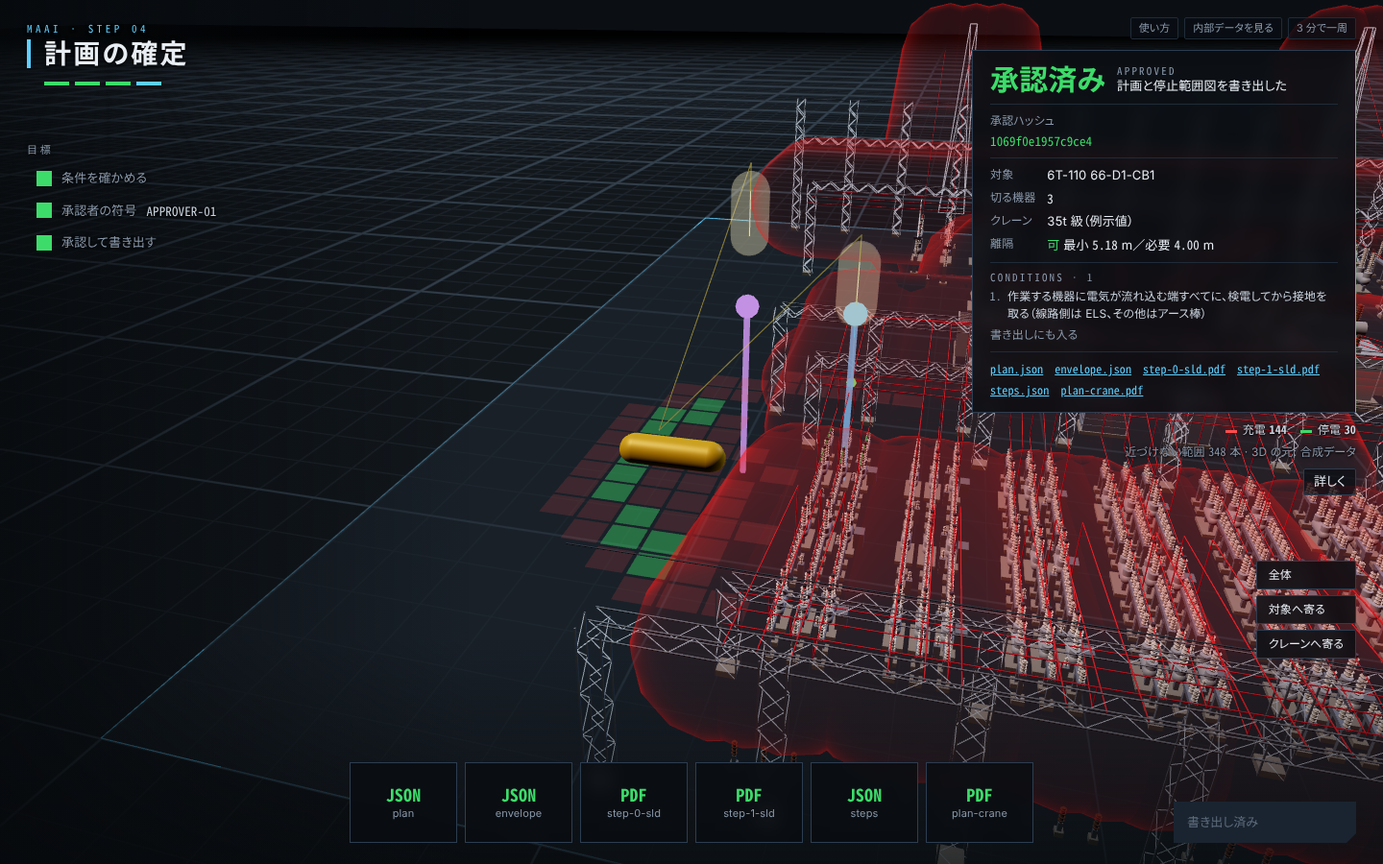
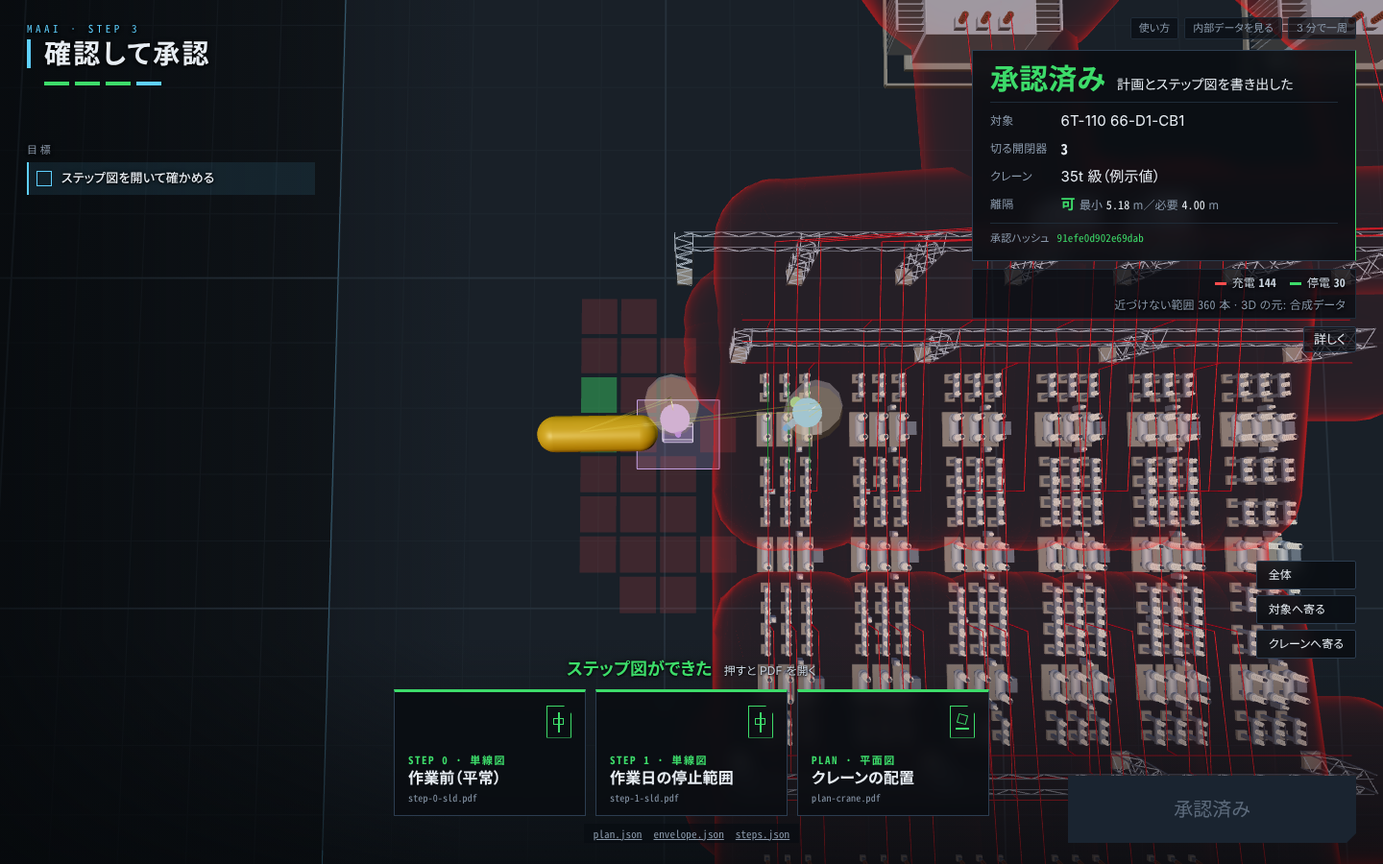
4 段の流れに合わせて録画スクリプト・語り（s3〜s5）・README の流れの表と画面写真を直す。台帳からの自動取得を「この先」に
Claude-Session: https://claude.ai/code/session_01LwsL2aemVhkJQyjjsEyFxk

diff --git a/scripts/demo_video/record.py b/scripts/demo_video/record.py
@@ -30,9 +30,9 @@ LINES = [
     ("s1", "0:00-0:15", 15, "機器を取り替える日も、変電所は全部は止められません。止める範囲は減らしたい。でもその案で大丈夫か。今は図面を見ながら、頭の中で想像しています。"),
     ("s2", "0:15-0:45", 30, "MAAI は、単線結線図と、平面図・断面図を読んで、構内の 3D を組み立てます。機器の位置と高さは図面から、どこがつながっているかは結線図から。読めなかったところは、要確認として人に返します。"),
     ("s2b", "0:45-1:05", 20, "工事の依頼は文章で来ます。Claude がそこから、取り替える機器、止められない設備、置き場、重さを読み取ります。番号が本当にあるかは計算で確かめ、入れるかどうかは人が決めます。"),
-    ("s3", "1:05-1:25", 20, "取り替える機器に電気が流れ込んでくる側すべてで、最初の断路器まで切る範囲が出ます。緑が停電、赤が充電。見えなかった充電部が、目に見えるようになります。"),
-    ("s4", "1:25-2:00", 35, "次はクレーンです。新任の私には、どのクレーンにするかがすぐには分かりません。MAAI は、吊る場所と置き場と重さから、充電部に近づかずに吊れる一番小さいクレーンを計算で選びます。今回は 35t 級。据える場所は、緑のますの中で人が動かして確かめられます。依頼文で 1 号バンクは止められないので、追加で止める案は出しません。"),
-    ("s5", "2:00-2:20", 20, "判定は計算で行い、根拠の表も残します。Claude に送る前に、名前や定格値は符号に置き換えます。採否は人が決め、停止範囲の結線図と、クレーンの位置を描いた平面図を書き出します。"),
+    ("s3", "1:05-1:25", 20, "単線結線図で、取り替える機器を押します。電気が流れ込んでくる側すべてで、最初の断路器まで切る範囲が自動で出ます。緑が停電、赤が充電。見えなかった充電部が見えます。"),
+    ("s4", "1:25-2:00", 35, "次はクレーンです。新任の私には、どのクレーンにするかがすぐには分かりません。平面図で資材の置き場を押し、重さを入れると、充電部に近づかずに吊れる一番小さいクレーンが自動で置かれます。今回は 35t 級。動かすと、その場所で使える級に選び直します。依頼文で 1 号バンクは止められないので、追加で止める案は出しません。"),
+    ("s5", "2:00-2:20", 20, "判定は計算で行い、根拠の表も残します。Claude に送る前に、名前や定格値は符号に置き換えます。この配置で OK と人が押すと承認され、停止範囲の結線図と、クレーンの位置を描いた平面図が出ます。"),
 ]
 
 REQ_TEXT = ("次の作業日に、66kV 1号ダイヤの遮断器 6T-110 を取り替えます。新しい遮断器は約 3.5 t です。資材は取り替える遮断器の西側、"
@@ -100,7 +100,14 @@ JS_PLACE_FAR = """(maxm)=>{ const m=window.maai, h=window.hud; if(!m||!m.zoneCel
   const ok=m.zoneCells.filter(c=>c.ok); if(!ok.length) return null;
   const b=(m.lastCrane&&m.lastCrane.base)||[NaN,NaN]; let best=-1, bd=-1, far=-1, fd=-1;
   ok.forEach((c,i)=>{ const d=Math.hypot(c.x-b[0],c.y-b[1]); if(!(d>=0)) return; if(d>fd){fd=d;far=i;} if(d<=maxm && d>bd){bd=d;best=i;} });
-  const i = best>=0?best:(far>=0?far:0); h.placeAtCell(i); return {i, n:ok.length, x:ok[i].x, y:ok[i].y, d:(best>=0?bd:fd)}; }"""
+  const i = best>=0?best:(far>=0?far:0); const info={i, n:ok.length, x:ok[i].x, y:ok[i].y, d:(best>=0?bd:fd)};
+  return Promise.resolve(h.placeAtCell(i)).then(()=>{ info.cls=m.lastCrane&&m.lastCrane.class; return info; }); }"""
+# 3D の点（地面の x,y,z）を画面の座標に（page.mouse.click で押すため）
+JS_SCREEN_XY = """([x,y,z])=>{ const m=window.maai, v=new m.THREE.Vector3(x,y,z||0).project(m.camera), r=m.renderer.domElement.getBoundingClientRect();
+  return [r.left+(v.x+1)/2*r.width, r.top+(1-v.y)/2*r.height]; }"""
+# 単線図で取り替える機器（見本 66-D1-CB1 = 6T-110）の .mk に寄せて、押すための CSS セレクタを返す
+JS_TARGET_MK = """(id)=>{ let e=document.querySelector('.mk[data-id="'+id+'"]') || document.querySelector('.mk[title^="6T-110 "]');
+  if(!e) return null; e.scrollIntoView({block:'center',inline:'center'}); return '.mk[data-id="'+e.dataset.id+'"]'; }"""
 JS_CAM = "()=>{const c=window.maai&&window.maai.controls; return c?[c.target.x,c.target.y,c.radius,c.theta,c.phi].map(v=>+v.toFixed(3)):null;}"
 # 結線図で押す開閉器: 停止範囲の「切る機器」のうち最初の断路器（無ければ最初の機器）。.mk に寄せて、押すための CSS セレクタを返す
 JS_PICK_MK = """()=>{ const m=window.maai, st=m&&m.lastSteps; let id=null;
@@ -246,19 +253,13 @@ def main() -> int:
             """緑のます目へクレーンを移して判定し直す（window.hud.placeAtCell）。HUD が無ければ None。"""
             if not HUD:
                 return None
-            n0 = mark("clearance")
-            r = page.evaluate(JS_PLACE_FAR, max_m)
-            if r:
-                wait_update("clearance", n0)
-            return r
+            return page.evaluate(JS_PLACE_FAR, max_m)   # 選び直しと判定が終わるまで待つ
 
         def rotate(deg: float, hold: int):
             """クレーンを deg 度回して判定し直し（window.hud.rotate）、hold ミリ秒止める。HUD が無ければ何もしない。"""
             if not HUD:
                 return
-            n0 = mark("clearance")
-            hud("rotate", deg)
-            wait_update("clearance", n0)
+            hud("rotate", deg)                          # s2 では向きを変えて級も選び直す。終わるまで待つ
             page.wait_for_timeout(hold)
 
         def pan(pdf: Path, hold: int):
@@ -312,14 +313,16 @@ def main() -> int:
                 drawer(False)                        # 図面から起こした配置の 3D を全面で見せる
                 page.wait_for_timeout(2500)
             elif sid == "s2b":
-                tab("s1")                            # 3D は全面のまま、右上に結線図の小窓
-                page.wait_for_timeout(1000)
-                drawer(True)                         # 依頼文の欄は引き出しの中
+                tab("s1")                            # 単線図が全面に出る
+                page.wait_for_timeout(1200)
+                if not page.evaluate("()=>{const b=document.querySelector('#hudSide [data-act=\"intake\"]'); if(b){b.click(); return true;} return false;}"):
+                    drawer(True)                     # 「依頼文から入れる」→ 引き出しの依頼文の欄
+                page.wait_for_timeout(500)
                 page.evaluate("(t)=>{const e=document.getElementById('reqText'); e.value=t;}", REQ_TEXT)
                 smooth("#reqText", "start")
                 page.wait_for_timeout(2500)
                 click("#btnIntake")
-                wait_in("#intakeBox .bay", 120000)   # Claude の返事を待つ（待ちの静止は compose が縮める）
+                wait_in("#intakeBox .bay", 120000)   # Claude の返事を待つ（オフラインでは規則の読み取り。待ちの静止は compose が縮める）
                 page.wait_for_timeout(1000)
                 shot("s2b_intake")
                 smooth("#intakeBox", "start")        # 読み取った 4 項目と引用、計算で確かめた結果、「この内容で入れる」
@@ -327,21 +330,27 @@ def main() -> int:
                 click("#btnIntakeUse")
                 wait_in("#stepsBox .bay", 30000)
                 page.wait_for_timeout(800)
-                drawer(False)                        # 3D の上: 「依頼文から読み取った」の札（紫）と、停止範囲の答え
+                drawer(False)                        # 単線図の上: 停止範囲の答え
                 page.wait_for_timeout(2500)
             elif sid == "s3":
-                tab("s1")
-                page.wait_for_timeout(1500)          # 答えの板: 停電にできる・切る開閉器 n・条件（3D の上）
-                shot("s3_answer")
-                sld_full(True)                       # 結線図を全面に
-                page.wait_for_timeout(800)
-                click('#sldZoom button[data-z="2.6"]')
-                page.wait_for_timeout(2500)
-                shot("s3_green")
-                set_mode("toggle")                   # 押すと開閉器の入・切
+                tab("s1")                            # 単線図は全面、押すと「取り替える機器に選ぶ」
+                page.wait_for_timeout(1200)
+                page.evaluate("()=>{const b=document.querySelector('#sldZoom button[data-z=\"2.6\"]'); if(b) b.click();}")
+                page.wait_for_timeout(1500)
+                tgt = page.evaluate(JS_TARGET_MK, "66-D1-CB1")
+                if tgt:
+                    page.wait_for_timeout(1500)
+                    n0 = mark("steps")
+                    click(tgt)                       # 取り替える機器を押す → 停止範囲が自動で出る
+                    wait_update("steps", n0)
+                    page.wait_for_timeout(3000)
+                    shot("s3_green")
+                else:
+                    print("単線図に取り替える機器が見つからない", file=sys.stderr)
+                set_mode("toggle")                   # 全面の単線図の上の小さな切替（W）: 押すと開閉器の入・切
                 mk = page.evaluate(JS_PICK_MK)       # 切る機器のうち母線側の断路器（入れると対象の区間が赤になる）。Playwright の locator は 1 回 15 秒ほどかかるので使わない
                 if mk:
-                    page.wait_for_timeout(1500)
+                    page.wait_for_timeout(1200)
                     toggle_mk(mk)                    # 入れる → 赤
                     page.wait_for_timeout(2000)
                     shot("s3_red")
@@ -349,39 +358,57 @@ def main() -> int:
                     page.wait_for_timeout(1500)
                 else:
                     print("結線図に押す開閉器が見つからない", file=sys.stderr)
-                sld_full(False)                      # 3D へ戻す（結線図は小窓）
-                page.wait_for_timeout(800)
-                click("#vTarget")                    # 見えなかった充電部（赤）と停電（緑）を 3D で
+                set_mode("target")
+                sld_full(False)                      # 3D へ（取り替える機器に寄る）: 見えなかった充電部（赤）と停電（緑）
+                settle_cam(20000)                    # 寄る動き（frameTo）が終わってから次の段へ（残っていると s2 の真上の視点を上書きする）
+                page.wait_for_timeout(1500)
             elif sid == "s4":
-                tab("s2")
+                for _ in range(2):                   # 真上の視点（段に入ると hud-s2 が動かす。前の段の寄る動きに上書きされたら入り直す）
+                    tab("s2")
+                    try:
+                        page.wait_for_function("()=>window.maai.controls.phi>1.4", polling=300, timeout=10000)
+                        break
+                    except Exception:
+                        print("真上の視点にならない。入り直す", file=sys.stderr)
                 page.wait_for_timeout(1000)
-                click("#btnSelect")                  # 吊る場所・置き場・重さから、一番小さいクレーンを探す
-                wait_in("#selectBox .big", 60000)
-                page.wait_for_timeout(3000)          # 3D の上: 選ばれた級と判定、地面に据えてよい範囲（緑）、下のバーに級のタイル
-                shot("s4_select")
+                page.evaluate("()=>{const t=document.getElementById('pickT'); if(t) t.value=''; window.hud&&window.hud.render();}")   # 重さは画面で入れる（例示値の既定を空けて、入れる順を見せる）
+                page.wait_for_timeout(1200)
+                shot("s4_top")
+                xy = page.evaluate(JS_SCREEN_XY, [26, 38, 0])   # 資材置場: 取り替える遮断器の西 8 m の地面を押す → 箱
+                page.mouse.click(xy[0], xy[1])
+                page.wait_for_timeout(2500)
+                shot("s4_box")
                 n0 = mark("clearance")
-                click("#btnAdoptSel")                # 選んだ配置を置く → 判定 → クレーンへ寄る
-                wait_in("#verdictBox .bay", 30000)
-                wait_update("clearance", n0)
-                settle_cam()
-                page.wait_for_timeout(3000)          # 答えの板: 可、最小離隔／必要、クレーンの札
+                page.evaluate("()=>{const i=document.getElementById('s2W'); if(i){ i.value='3.5'; i.dispatchEvent(new Event('input',{bubbles:true})); } else { const t=document.getElementById('pickT'); t.value='3.5'; } }")
+                wait_update("clearance", n0, timeout=120000)   # 重さが入ると自動で選定 → 自動で採用 → 判定（人は押さない）
+                settle_cam(6000)
+                page.wait_for_timeout(3500)          # 答えの板: 35t 級で置ける（可）、最小離隔／必要
                 shot("s4_verdict")
-                # 見せ場: 一つ上の級に切り替えると置ける範囲が広がる → 緑のます目へ移して判定し直す → 回して判定し直す
+                base = page.evaluate("()=>{const c=window.maai.lastCrane; return c?[c.base[0],c.base[1],2]:null}")
+                if base:                             # クレーンを押す → 「動かす」「↺/↻ 5°」のカード
+                    xy = page.evaluate(JS_SCREEN_XY, base)
+                    page.mouse.click(xy[0], xy[1])
+                    page.wait_for_timeout(2000)
+                    shot("s4_card")
+                # 見せ場: 一つ上（50t）の範囲を塗る → 緑のます目へ動かすと、その位置で級を選び直す → 回しても選び直す
                 if zone_tile(1):
                     page.wait_for_timeout(2500)
                     shot("s4_tile")
-                if place_far_cell():
+                moved = place_far_cell()
+                print("動かした:", moved, file=sys.stderr)
+                if moved:
                     page.wait_for_timeout(3000)
                     shot("s4_moved")
-                for _ in range(2):                   # 1 回の判定し直しに数秒かかるので 2 回
+                for _ in range(2):                   # 1 回の選び直しに数秒かかるので 2 回
                     rotate(5, 1600)
                 shot("s4_rotated")
-                n0 = mark("clearance")
-                click("#btnAdoptSel")                # 計算で選んだ配置（一番小さい級）に戻す
-                wait_update("clearance", n0)
-                settle_cam()
-                page.wait_for_timeout(1500)
-                drawer(True)                         # 根拠は引き出し: 重さだけなら 10t・離隔で 35t、一つ下が使えない理由、止められない設備（依頼文）と止められる場合の比較
+                n0 = mark("clearance")               # 「一番小さいクレーンを選ぶ」のタイル → 自動で採用し、35t 級の配置に戻る
+                if page.evaluate("()=>{const b=document.querySelector('#hudBar .tile[data-act=\"select\"]'); if(b){b.click(); return true;} return false;}"):
+                    wait_update("clearance", n0, timeout=120000)
+                    settle_cam(6000)
+                page.wait_for_timeout(2000)
+                shot("s4_back")
+                drawer(True)                         # 根拠は引き出し: 重さだけなら 10t・離隔で 35t、一つ下が使えない理由、止められない設備（依頼文）
                 smooth("#selectBox", "start")
                 page.wait_for_timeout(3000)
                 scroll_text("#selectBox .bay", ["止められない設備", "追加で止めた場合"], "center")
@@ -389,6 +416,7 @@ def main() -> int:
             elif sid == "s5":
                 # 根拠: 導体ごとの距離・必要・余裕の表（引き出し。s4 の終わりから開いたまま）
                 drawer(True)
+                page.evaluate("()=>{const b=document.getElementById('manualBox'); if(b) b.open=true;}")
                 smooth("#verdictBox", "start")
                 page.wait_for_timeout(3000)
                 shot("s5_evidence")
@@ -398,11 +426,11 @@ def main() -> int:
                 page.wait_for_timeout(3200)
                 page.evaluate(JS_REMOVE_OV)
                 drawer(False)
-                tab("s3")                            # 答えの板: 対象・切る機器・クレーン級・離隔と、承認の条件
-                page.wait_for_timeout(1500)
-                click("#btnApprove")
+                tab("s3")                            # 答えの板: 対象・切る開閉器・クレーン級・離隔と条件
+                page.wait_for_timeout(2000)
+                click("#hudNext")                    # 「この配置で OK（承認）」（= #btnApprove）
                 wait_in("#approveBox .bay", 60000)
-                page.wait_for_timeout(2000)          # 承認ハッシュと書き出したファイル（3D の上）
+                page.wait_for_timeout(3000)          # 承認済みと、ステップ図のタイル（停止範囲の単線図・クレーン配置の平面図）
                 shot("s5_approved")
 
                 def overlay(name: str, hold: int):

diff --git a/README.md b/README.md
@@ -8,11 +8,11 @@
 
 > このリポジトリのデータはすべて合成です。実在する事業者・変電所・図面・写真・人は含みません（[データについて](#データについて)）。
 
-![作業日の停止範囲。66kV 遮断器を取り替える日に切る機器と条件が出て、結線図の上で停電（緑の破線）と充電（赤）を追う](docs/img/ui-2-steps.png)
+![対象を選ぶ。単線結線図の上で 66kV 遮断器 6T-110 を押すと、作業日の停止範囲（切る開閉器 3）が自動で出て、停電（緑の破線）と充電（赤）を追える](docs/img/ui-2-steps.png)
 
 ## すぐ見る（インストールなし・スマホ可）
 
-- **ブラウザで動かす**: https://daxion1578.github.io/Minimum-Approach-Area-Indicator/ を開くだけ。サーバ無しで、計算はそのブラウザの中で、手元のサーバ版と同じ Python コードが行います（初回は準備に 10〜20 秒）。3D が画面いっぱいに出て、左上のいまのステップ名と左の目標に沿って、右下の操作で 4 つのステップを順に進めます。表や数値の内訳は「詳しく」の引き出しに入っています。Claude は呼ばないので、図面の意味づけと修正案の説明は規則の文になり、工事の依頼文は開閉器番号だけを拾います（止められない設備・置き場・重さは、Claude をつないだサーバ版で読みます）。
+- **ブラウザで動かす**: https://daxion1578.github.io/Minimum-Approach-Area-Indicator/ を開くだけ。サーバ無しで、計算はそのブラウザの中で、手元のサーバ版と同じ Python コードが行います（初回は準備に 10〜20 秒）。3D が画面いっぱいに出て、各ステップで入れるもの（単線図で対象を押す、平面図で資材置場と重さ、この配置で OK）だけが画面に出ます。表や数値の内訳は「詳しく」の引き出しに入っています。Claude は呼ばないので、図面の意味づけと修正案の説明は規則の文になり、工事の依頼文は開閉器番号だけを拾います（止められない設備・置き場・重さは、Claude をつないだサーバ版で読みます）。
 - **動いている証拠**: 上の `check` バッジ → 最新の実行 → **Summary**。push のたびに GitHub 上で、図面取込 → 作業日の停止範囲 → 重機の選定（一番小さいクラス）→ 追加停止で小さくできるか → 承認、を通しで動かし、段階ごとの合否を表で出しています（Claude は呼ばない経路）。
 - **画面**: 下の「流れ」の画面写真。
 - **手元で同じ確認**: `python scripts/check_demo.py`（サーバを立てずに 1 分以内）。
@@ -31,18 +31,18 @@
 
 ## 流れ（4 つのステップ）
 
-画面は 3D を画面いっぱいに出し、操作をその上に浮かべる形です。左上にいまのステップ名、左に目標、右上に答え、下にバー、右下に操作と確定。表・数値の内訳・旧来のパネルは「詳しく」の引き出しに入っています。
+画面は 3D を画面いっぱいに出し、その上に、いまのステップで入れるものだけを出します。数値の内訳・根拠の表・細かい入力欄は「詳しく」の引き出しに入っています。
 
-| | ステップ | 何をするか | 誰が決めるか |
-|---|---|---|---|
-| 1 | 図面取込 | **図面を入れると、構内の形と電気のつながりが一緒に見える。** 単線結線図（ベクター PDF）を読み込む。線・開閉器記号・番号から接続を起こし、開閉器が「未確認」で並ぶ。種別の確認と質問文は Claude（呼べなければ規則）。装置図（平面・断面）からは機器の位置と高さを読み、結線図の接続と合わせて 3D を組み立て直す（下書き）。読めない所は要確認として人に戻す。確認した下書きは、人が「この 3D で続ける」と押してはじめて計算に使われる | 接続・位置の読み取りは決定論。確認は人 |
-| 2 | 停止範囲 | **結線図で作業する機器を選ぶと、停止範囲が決まり、3D の赤と緑が切り替わる。** 工事の依頼文（ふつうの日本語）を Claude が読み、取り替える機器・止められない設備・資材置場・重さを取り出す。番号の実在と矛盾は計算で確かめ、人が「この内容で入れる」を押す。その日に取り替える機器を選ぶと、作業日の停止範囲が出る。作業する機器に電気が流れ込む端すべてで、最初に出会う断路器まで（途中の遮断器も）切る。送電線は相手端を切る条件、止めない母線は端子の切り離し。右上の小窓の単線結線図で、停電（緑の破線）と充電（赤）を追い、図を押して開閉器を入・切できる | 決定論。止めるかどうかは人 |
-| 3 | 重機 | **資材の置き場所と重さを入れると、クレーンの配置と大きさが決まる。そのあと人が 3D 上で動かし・回せる。** 吊る機器（取り替える機器の真上）と資材置場（の真上）と重さから、届いて・吊れて・充電部の離隔を保てる一番小さいクレーンと据付位置を選ぶ。一つ下のクラスが使えない理由と、追加で止めれば何級で済むかも出す。据えてよい範囲は地面の緑のます目で示し、緑を押すとクレーンをそこへ移して判定し直す。一つ上・二つ上の級とも比べられる。修正案を出すこともできる | 選定と判定は決定論。採用は人 |
-| 4 | 計画確定 | **条件を確かめて承認すると、図面と計画が書き出される。** 承認すると、もう一度判定し直してから `approved/` に plan・envelope・停止範囲図（塗り分けた単線結線図 PDF）、クレーンの配置を描き込んだ平面図 PDF を書き出す。接地を取る条件などを計画に書く。不可と、重機の無い計画は承認できない | 人 |
+| | ステップ | 人が入れるもの | 自動で出るもの | 誰が決めるか |
+|---|---|---|---|---|
+| 0 | 図面を読む | 単線結線図と装置図（平面・断面）のベクター PDF | 線・開閉器記号・番号から接続を起こし、装置図から機器の位置と高さを読んで 3D を組み立てる。種別の確認と質問文は Claude（呼べなければ規則）。読めない所は要確認として人に戻す。下書きの 3D は、人が「この 3D で続ける」と押してはじめて計算に使われる | 読み取りは決定論。確認は人 |
+| 1 | 対象を選ぶ | 単線結線図の上で、取り替える機器を押す | 作業日の停止範囲。作業する機器に電気が流れ込む端すべてで、最初に出会う断路器まで（途中の遮断器も）切る。送電線は相手端を切る条件、止めない母線は端子の切り離し。結線図の上で停電（緑の破線）と充電（赤）、3D の赤と緑。工事の依頼文があれば「依頼文から入れる」で、Claude が取り替える機器・止められない設備・資材置場・重さを読み取る（番号の実在と矛盾は計算で確かめ、人が入れる） | 決定論。止めるかどうかは人 |
+| 2 | 置場と重さ | 真上から見た平面図で資材置場を押して箱を置き、重さを入れる | 届いて・吊れて・充電部の離隔を保てる一番小さいクレーンと据付位置。据えてよい範囲は地面の緑のます目。クレーンを押して動かす・回すと、その位置で使える一番小さい級に選び直す。一つ下の級が使えない理由と、追加で止めれば何級で済むかは「詳しく」に | 選定と判定は決定論。どこに据えるかは人 |
+| 3 | 確認して承認 | 「この配置で OK（承認）」を押す | もう一度判定し直してから、工事で使うステップ図（作業前と作業日の停止範囲を塗り分けた単線結線図 PDF、クレーンの配置を描き込んだ平面図 PDF）と計画（JSON）を書き出す。接地を取る条件などを計画に書く。不可と、重機の無い計画は承認できない | 人 |
 
-![重機の配置。35t 級で可（最小 5.18 m／必要 4.00 m）。地面の緑のます目がクレーンを据えてよい範囲で、下のバーで 35t・50t・70t 級の置けるます数を比べられる。重さだけなら 10t 級で足りるが、充電部を避けるために 35t 級が要る](docs/img/ui-3-select.png)
-![図面を読む。読めた開閉器番号と確かめてほしいことが右上に出て、下のボタンから単線結線図と装置図（平面・断面）を入れる](docs/img/ui-1-ingest.png)
-![計画確定。承認の条件と、書き出したファイル](docs/img/ui-4-approve.png)
+![置場と重さ。真上から見た平面図で資材置場を押して箱を置き、重さ 3.5 t を入れると、一番小さいクレーン（35t 級、可。最小 5.18 m／必要 4.00 m）が自動で置かれる。地面の緑のます目が据えてよい範囲](docs/img/ui-3-select.png)
+![図面を読む。サンプルの結線図を入れると、読めた開閉器番号と確かめてほしいことが右上に出る](docs/img/ui-1-ingest.png)
+![確認して承認。「この配置で OK」で承認すると、作業前と作業日の単線結線図、クレーン配置の平面図がステップ図として出る](docs/img/ui-4-approve.png)
 
 ## 設計判断
 
@@ -110,9 +110,9 @@ uvicorn server.app:app --reload     # http://localhost:8000
 
 ## この先
 
+- 工事の依頼文の代わりに、工事全体の資料や設備台帳から、取り替える機器・重さ・止められない設備を自動で持ってくる
 - 配置図・断面図から起こした 3D を、停止範囲と離隔の計算に使う（今は下書きの表示と一致の確認まで）
 - 複数の作業日を並べて持つ（今は 1 日ずつ）。据付可能な範囲（地盤・搬入路）を一般平面図から取る
-- 作業指示の自然文から、止められない回線・作業対象・重機を取り出す
 - 停止要否検討書の文章
 - 承認済みの包絡を現地（AR）とクレーン側の装置へ
 - 3 相架線の全造形、点群との照合、工程表との連携、設備台帳との接続

diff --git a/docs/demo-plan.md b/docs/demo-plan.md
@@ -17,9 +17,9 @@
 | 0:00–0:15 | 図面（一般平面図 → 機械器具装置図〈平面・断面〉→ 単線結線図をゆっくり寄せる） | 機器を取り替える日も、変電所は全部は止められません。止める範囲は減らしたい。でもその案で大丈夫か。今は図面を見ながら、頭の中で想像しています。 |
 | 0:15–0:45 | ステップ 1（図面取込）: 図面を入れると、構内の形と電気のつながりが一緒に見える。図面を読み込む（意味づけは Claude）→ 装置図から起こした 3D →「この 3D で続ける」 | MAAI は、単線結線図と、平面図・断面図を読んで、構内の 3D を組み立てます。機器の位置と高さは図面から、どこがつながっているかは結線図から。読めなかったところは、要確認として人に返します。 |
 | 0:45–1:05 | ステップ 2（停止範囲）: 工事の依頼文 →「Claude で読み取る」→ 取り替える機器・止められない設備（1 号バンク）・置き場・重さ、計算で確かめた結果 →「この内容で入れる」 | 工事の依頼は文章で来ます。Claude がそこから、取り替える機器、止められない設備、置き場、重さを読み取ります。番号が本当にあるかは計算で確かめ、入れるかどうかは人が決めます。 |
-| 1:05–1:25 | ステップ 2（停止範囲）: 結線図で作業する機器を選ぶと、停止範囲が決まり、3D の赤と緑が切り替わる。切る機器と条件 → 右上の小窓の結線図の緑と赤（開閉器を押して戻す）→ 3D | 取り替える機器に電気が流れ込んでくる側すべてで、最初の断路器まで切る範囲が出ます。緑が停電、赤が充電。見えなかった充電部が、目に見えるようになります。 |
-| 1:25–2:00 | ステップ 3（重機）: 資材の置き場所と重さを入れると、クレーンの配置と大きさが決まる。「一番小さいクレーンを選ぶ」→ 10t（重さ）・35t（離隔）の理由 → 止められない設備（依頼文）のため追加停止の案は出ない（止められるなら 25t 級）→ 採用 → 可 | 次はクレーンです。新任の私には、どのクレーンにするかがすぐには分かりません。MAAI は、吊る場所と置き場と重さから、充電部に近づかずに吊れる一番小さいクレーンを計算で選びます。今回は 35t 級。据える場所は、緑のますの中で人が動かして確かめられます。依頼文で 1 号バンクは止められないので、追加で止める案は出しません。 |
-| 2:00–2:20 | 根拠（右上の答えと「詳しく」の引き出しの判定の表、離隔表 ID・要確認）→ 実際に Claude へ送った依頼文（東線 1L・2L が LINE-1・LINE-2 に）→ 承認 → 停止範囲の結線図 PDF と、クレーン配置の平面図 PDF | 判定は計算で行い、根拠の表も残します。Claude に送る前に、名前や定格値は符号に置き換えます。採否は人が決め、停止範囲の結線図と、クレーンの位置を描いた平面図を書き出します。 |
+| 1:05–1:25 | STEP 1（対象を選ぶ）: 全面の単線結線図で 6T-110 を押す → 停止範囲が自動で出る（切る開閉器 3）→ 開閉器を入・切して赤⇄緑 → 3D | 単線結線図で、取り替える機器を押します。電気が流れ込んでくる側すべてで、最初の断路器まで切る範囲が自動で出ます。緑が停電、赤が充電。見えなかった充電部が見えます。 |
+| 1:25–2:00 | STEP 2（置場と重さ）: 真上から見た平面で置場を押して箱、重さ 3.5 t → 一番小さいクレーンが自動で置かれる（35t 級・可）→ クレーンを押して 50t の範囲へ動かすと 50t 級に選び直す → 回す → 35t に戻す | 次はクレーンです。新任の私には、どのクレーンにするかがすぐには分かりません。平面図で資材の置き場を押し、重さを入れると、充電部に近づかずに吊れる一番小さいクレーンが自動で置かれます。今回は 35t 級。動かすと、その場所で使える級に選び直します。依頼文で 1 号バンクは止められないので、追加で止める案は出しません。 |
+| 2:00–2:20 | 根拠（右上の答えと「詳しく」の引き出しの判定の表、離隔表 ID・要確認）→ 実際に Claude へ送った依頼文（東線 1L・2L が LINE-1・LINE-2 に）→ 承認 → 停止範囲の結線図 PDF と、クレーン配置の平面図 PDF | 判定は計算で行い、根拠の表も残します。Claude に送る前に、名前や定格値は符号に置き換えます。この配置で OK と人が押すと承認され、停止範囲の結線図と、クレーンの位置を描いた平面図が出ます。 |
 | 2:20–2:45 | 構想映像（25 秒。「構想のイメージ・未実装」が出続ける。計画は本編と同じ 35t 級） | この先は現地です。承認した計画をスマホでかざすと、近づけない範囲が目の前の設備に重なります。位置が決まらないときは出しません。取り違えが一番危ないからです。 |
 | 2:45–3:00 | 締めの札（15 秒。最後の 3 秒は札だけ） | 現場は、命を預かっています。だから、最後は人が決める。MAAI は、経験の浅い担当者の判断を助ける道具です。 |
 
@@ -27,6 +27,8 @@
 - 今: 「…止められるなら 25t 級、という比較は残します。」
 - 案: 「…据える場所は、緑のますから人が選び直せます。」（字数はほぼ同じ。25t 級の比較は画面に残り、語りからは落ちる）
 → 11/8 に採った（新しい画面の録画で、s4 の後半に 50t の範囲・緑のますへ移す・回す場面が入り、「今回は 35t 級」の字幕が 50t の画面に重なったため）。文は「据える場所は、緑のますの中で人が動かして確かめられます。」`record.py` の s4 も同じ。
+
+v6 の直し（11/8 昼）: 操作を 4 段（図面を読む → 単線図で対象を押す → 平面で置場と重さ → この配置で OK）に絞ったのに合わせ、s3・s4・s5 の語りを「押す・置く・入れる」の言い方に直した（字数はほぼ同じ）。
 
 v5 の直し（11/8）: 工事の依頼文を Claude が読む場面（0:45–1:05）を足した。依頼文で「1 号バンクは止められない」とされるので、s4 の答えは 35t 級のまま、追加停止の案は出ない。収録は Claude をつないだサーバ版（`MAAI_OFFLINE` を付けずに起動）で行い、s5 では実際の送信記録を映す。構想映像は 25 秒、締めの札は 15 秒に縮めた。
 

diff --git a/docs/decisions.md b/docs/decisions.md
@@ -4,6 +4,8 @@
 
 ## 2026-11-08
 
+- **操作を 4 段に絞った（本人「操作がわかりにくい。入れるものを最低限だけ」）。** 図面を読む → 単線図で対象を押す（停止範囲は自動）→ 真上から見た平面で資材置場の箱と重さ（クレーンは自動で選んで置く）→「この配置で OK」で承認しステップ図を出す。人がクレーンを動かす・回すと、その位置で使える一番小さい級を選び直す（`engine/crane_select.py: select_at`、テスト）。依頼文の読み取りは対象の段の任意の入口に残し、台帳・工事資料からの自動取得は「この先」。図面取込は残す（Claude を使う場面）。
+
 - **220kV の配置を直した（本人の朱書き。結線は変えない）。** 線路ベイの端の相が変圧器ベイの端の相と同じ南北の線上に並んでいたので、東線1L を西へ（x 40→32）、東線2L を東へ（96→116、母線は 126 m まで延長）。セクション断路器は変圧器ベイの分岐母線と分岐母線の間の真ん中へ（x 62・90）。母線は両端の母線鉄構（母線と直角）から水平に張り、セクション断路器は高い架台（H 形）に載せて、母線が少し下りて碍管の頭につながる形にした。母線と同じ向きに走る梁（220-GANTRY-BUS）はやめた。図面 3 枚と図面からの読み取り（ingest/layout_build.py）も同じ規則に揃えた。66kV 側と見本の答え（35t 級・20t 級）は変わらない。
 
 - **画面を「3D を全面に、操作を浮かべる」形に作り直した（本人「情報量が多すぎる。シンプルに」）。** 左パネルは、やること・答え・根拠・作り手向けの説明が同じ強さで並んでいた。各画面を「何を入れると、何がわかるか」の一文に絞り、左上にステップ名、左に目標、右上に答え、下にバー、右下に操作と次へを置いた（ゲームの建設モードの配置の型）。旧パネルは「詳しく」で出る引き出しに残し、ID と計算は変えていない（`web/hud.js` と段ごとの `web/hud-s0..s3.js`）。幅 699px 以下は今までの 1 列のまま。案1（パネルを残して整理）と案2（全面＋浮かべる）の画面案を並べて本人が案2 を選んだ。
